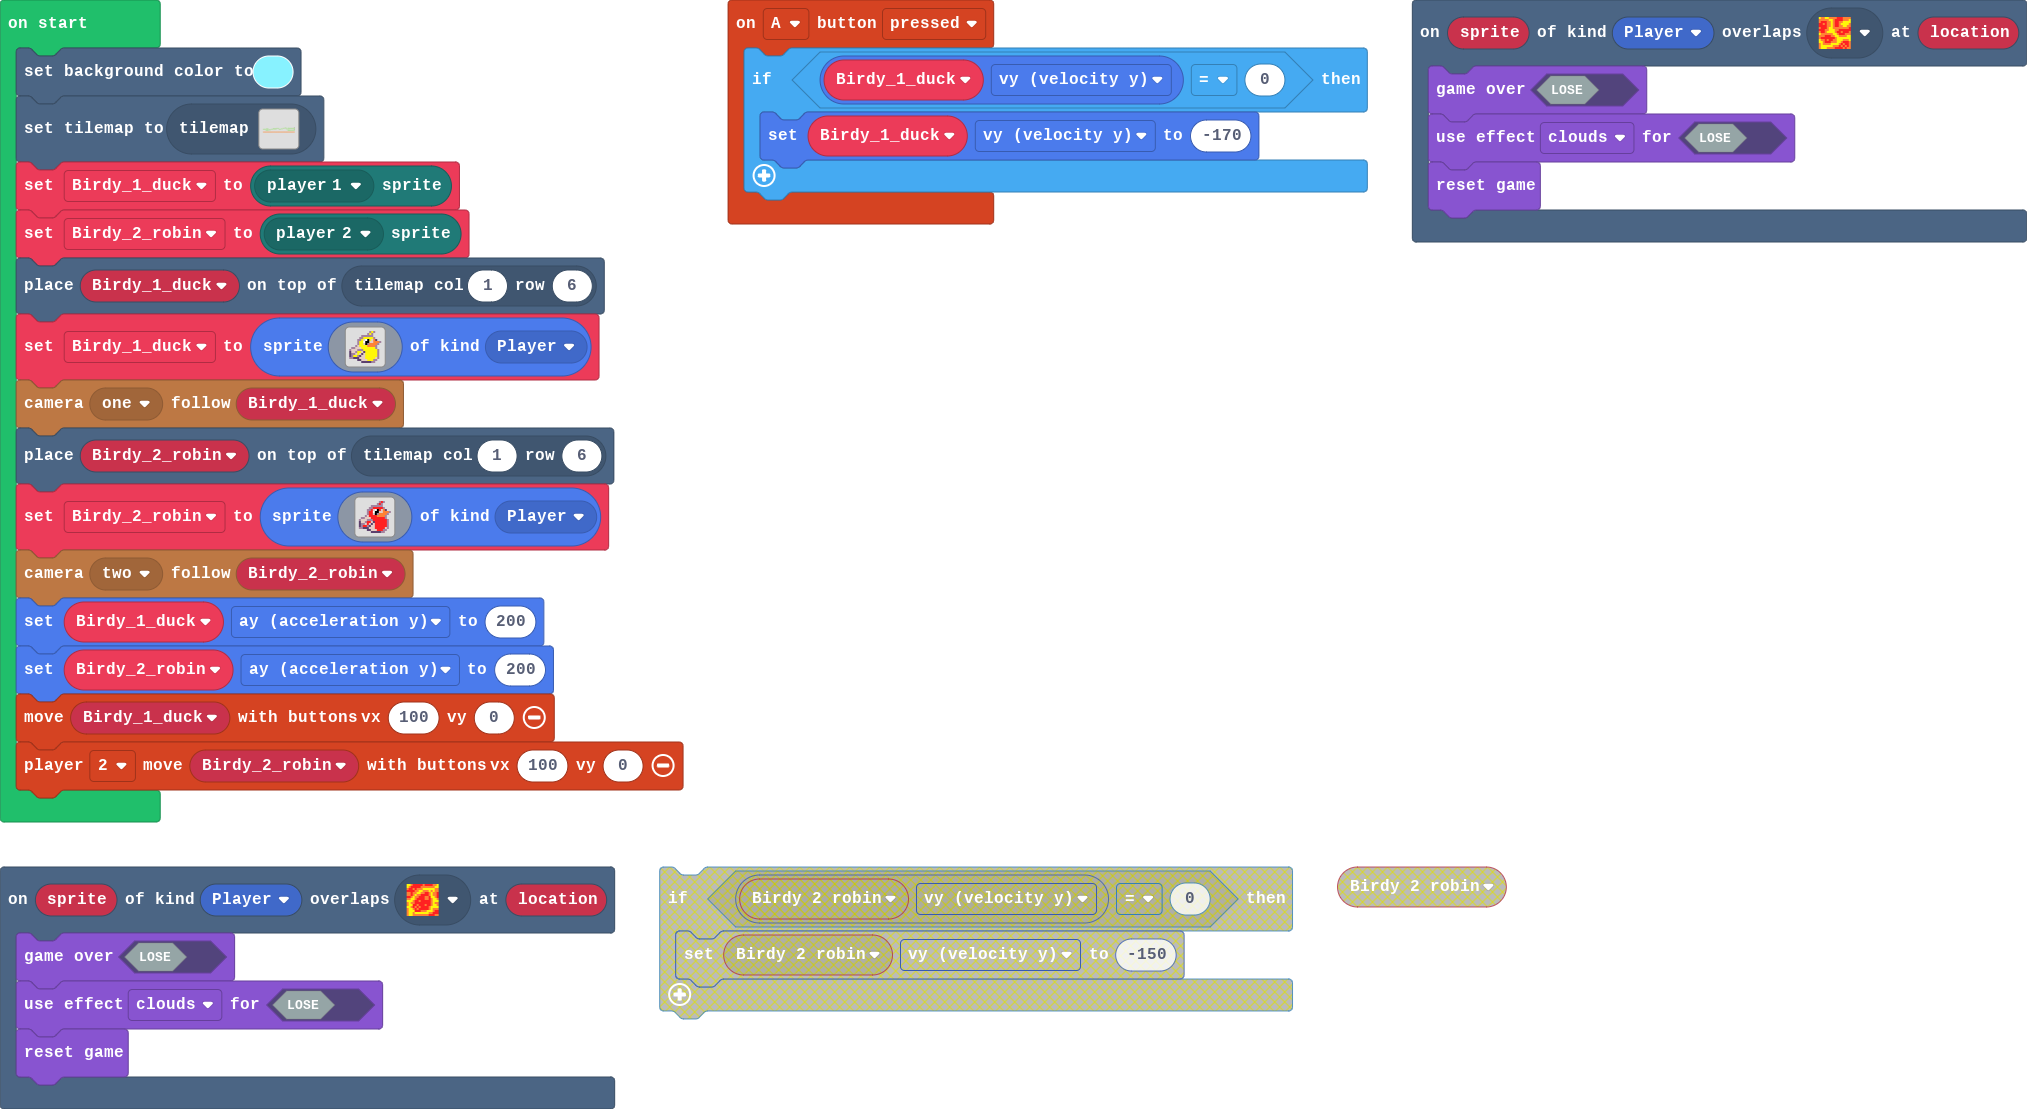
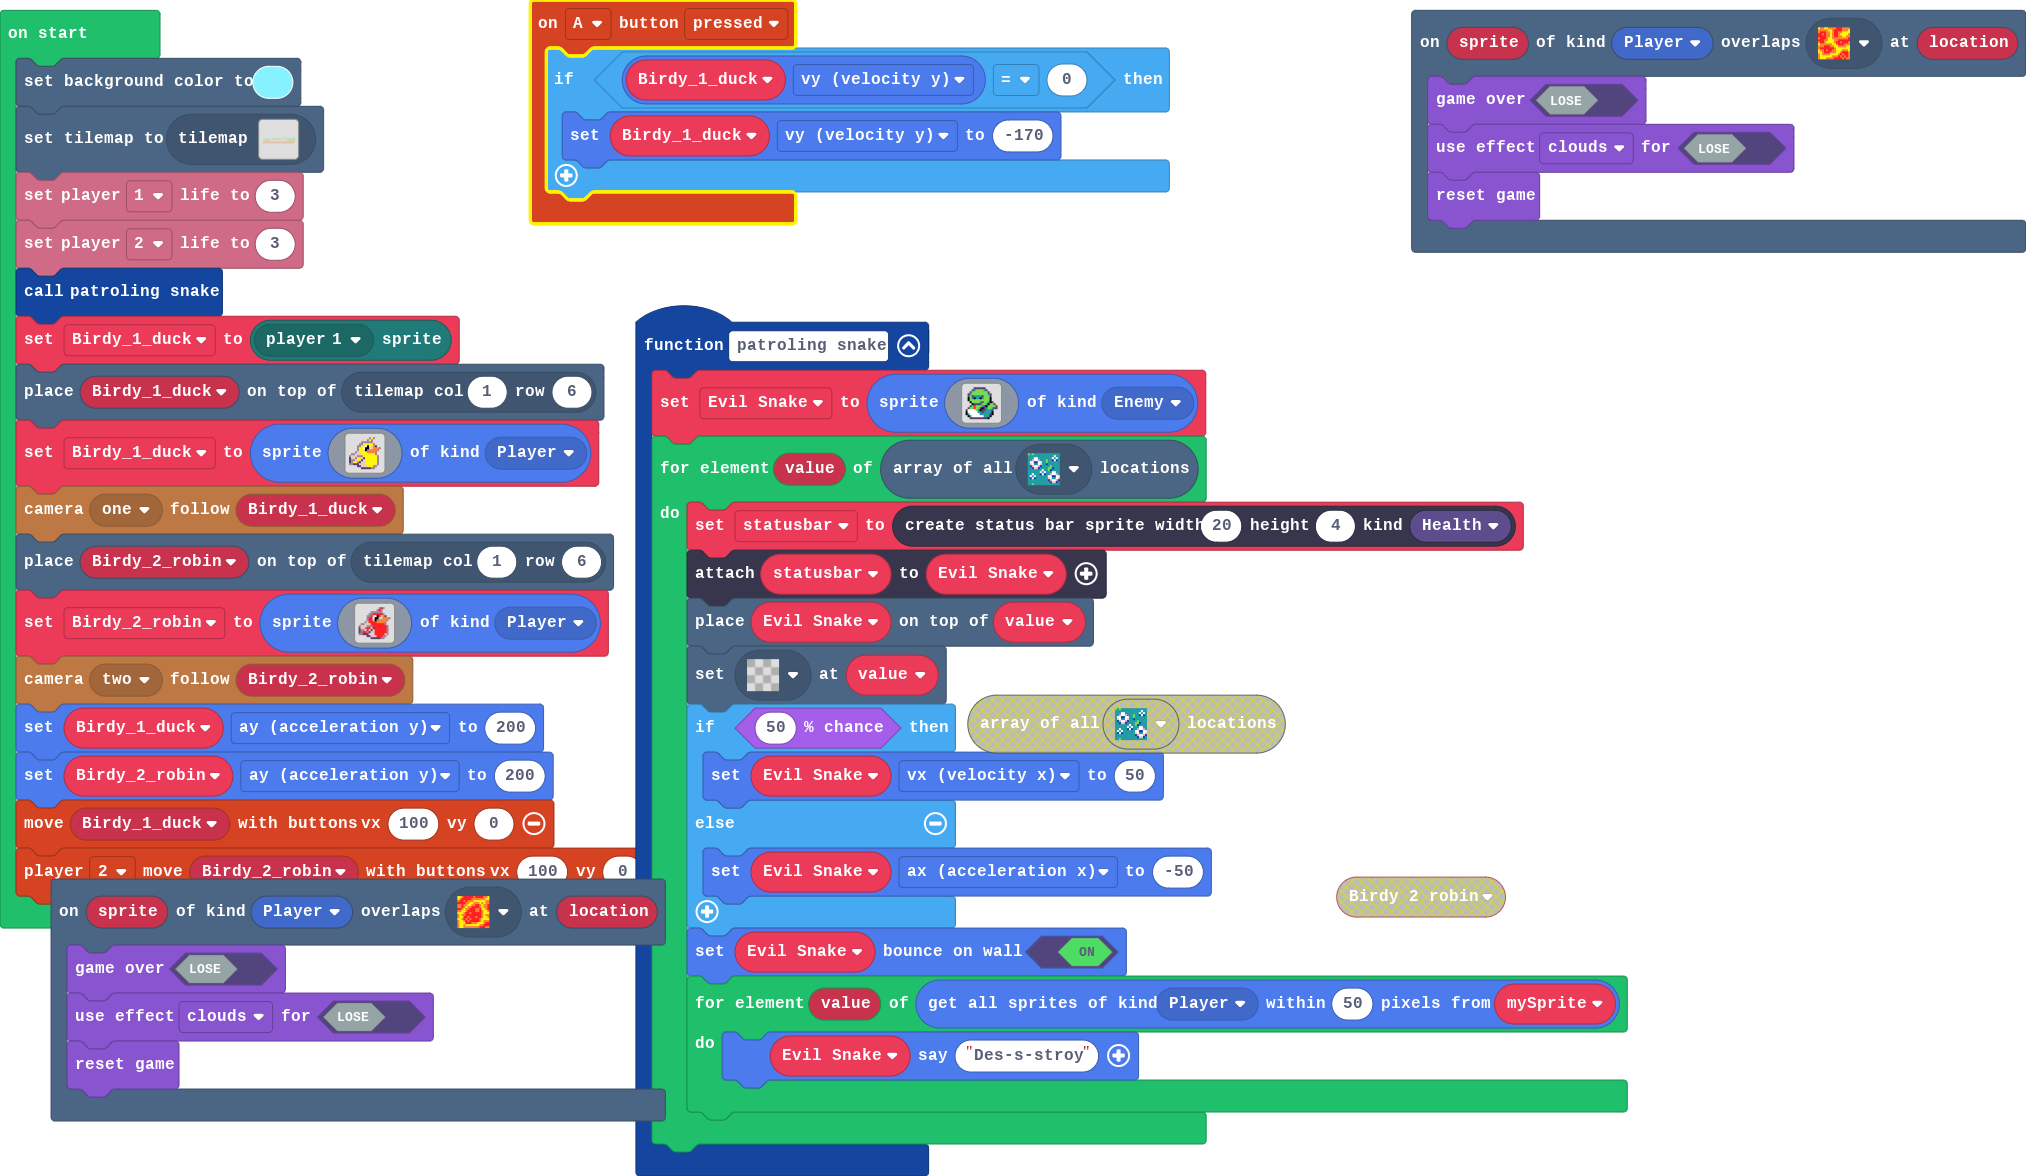
Update pxt.json, main.blocks, main.ts, tilemap.g.jres, tilemap.g.ts, images.g.jres, images.g.ts, Number Hopper🎮.json

diff --git a/tilemap.g.ts b/tilemap.g.ts
@@ -88,8 +88,27 @@ namespace myTiles {
 ............................................................
 ............................................................
 `, [myTiles.transparency16,myTiles.tile9,sprites.builtin.forestTiles0,sprites.swamp.swampTile13,sprites.swamp.swampTile9,sprites.builtin.forestTiles22,sprites.builtin.forestTiles20,sprites.castle.rock0,sprites.castle.rock1,sprites.castle.rock2,sprites.builtin.forestTiles3,myTiles.tile6,sprites.builtin.forestTiles8,myTiles.tile7,myTiles.tile8,myTiles.tile10,sprites.dungeon.hazardLava0,sprites.dungeon.hazardLava1], TileScale.Sixteen);
+            case "level3":
+            case "level3":return tiles.createTilemap(hex`1000100000000000000000000000000000000000000000000000000000000000000000000000000000000000000000000000000000000000000000000000000000000000000000000000000000000000000000000000000000000000000000000000000000000000000000000000000000000000000000000000000000000000000000000000000000000000000000000000000000000000000000000000000000000000000000000000000000000000000000000000000000000000000000000000000000000000000000000000000000000000000000000000000000000000000000000000000000000000000000000000000000000000000000000000000000000000`, img`
+. . . . . . . . . . . . . . . . 
+. . . . . . . . . . . . . . . . 
+. . . . . . . . . . . . . . . . 
+. . . . . . . . . . . . . . . . 
+. . . . . . . . . . . . . . . . 
+. . . . . . . . . . . . . . . . 
+. . . . . . . . . . . . . . . . 
+. . . . . . . . . . . . . . . . 
+. . . . . . . . . . . . . . . . 
+. . . . . . . . . . . . . . . . 
+. . . . . . . . . . . . . . . . 
+. . . . . . . . . . . . . . . . 
+. . . . . . . . . . . . . . . . 
+. . . . . . . . . . . . . . . . 
+. . . . . . . . . . . . . . . . 
+. . . . . . . . . . . . . . . . 
+`, [myTiles.transparency16], TileScale.Sixteen);
             case "level 1 two paths":
-            case "level 1 two paths1":return tiles.createTilemap(hex`4600100000000000000000000000000000000000000000000000000000000000000000000000000000000000000000000000000000000000000000000000000000000000000000000000000000000000000000000000000000000000000000000000000000000000000000000000000000000000000000000000000000000000000000000000000000000000000000000000000000000000000000000000000000000000000000000000000000000000000000000000000000000000000000000000000000000000000000000000000000000000000000000000000000000000000000000000000000000000000000000000000000000000000000000000000000000000000000000000000000000000000000000000000000000000000000000000000000000000000000000000000000000000000000000000000000000000000000000000000000000000000000000000000000000000000000000000000000000000000000000000000000000000000000000000000000000000000000000000000000000000000000000000000000000000000000000000000000000000000000000000000300000000000000000000000000000000000000000000000000000000000000000000000000000000000000000000000002020200000000000200000000000000000000000002000000000000000000000000000000000000000000000001000000000001000202020200000000000000000002020200000000000000000202020202020202020202020202020000000000000002020202020000000000000000000002020202020202020000000000000000000002020200000000000000000202020000000000000000000000000000000002020202020200000000000000000000000002020200000000000000000000000000000202020200000000000000000000000000000000000000000000000000000000000004000000000000000000000000000202020200000000000000000000000000000000000000000000000000000000000000000000000000000002000000000000000000000000020000000000000202020202020000000000000000000000000000000000000000000000000000000000000000000000000000000000000202020202020202020202020202020200000000000000000000000000000000000000000000000000000000000000000000000000000000000000000000000000000000000000000000000000000000000000000000000000000000000000000000000000000000000000000000000000000000000000000000000000000000000000000000000000000000000000000000000000000000000000000000000000000000000000000000000000000000000000000000000000000000000000000000000000000000000000000000000000000000000000000000000000000000000005060506050605060506050506050605060506050605060506050605060506050506050605060506060506060506050605060505060506050605050605050605060605060605`, img`
+            case "level 1 two paths1":return tiles.createTilemap(hex`4600100000000000000000000000000000000000000000000000000000000000000000000000000000000000000000000000000000000000000000000000000000000000000000000000000000000000000000000000000000000000000000000000000000000000000000000000000000000000000000000000000000000000000000000000000000000000000000000000000000000000000000000000000000000000000000000000000000000000000000000000000000000000000000000000000000000000000000000000000000000000000000000000000000000000000000000000000000000000000000000000000000000000000000000000000000000000000000000000000000000000000000000000000000000000000000000000000000000000000000000000000000000000000000000000000000000000000000000000000000000000000000000000000000000000000000000000000000000000000000000000000000000000000000000000000000000000000000000000000000000000000000000000000000000000000000000000000000000000000000000000000300000000000000000000000000000000000000000000000000000000000000000000000000000000000000000000000002020200000000000200000000000000000000000002000000000000000000000000000000000000000000000001000007000001000202020200000000000000000002020200000000000000000202020202020202020202020202020000000000000002020202020000000000000000000002020202020202020000000000000000000002020200000000000000000202020000000000000000000000000000000002020202020200000000000000000000000002020200000000000000000000000000000202020200000000000000000000000000000000000000000000000000000000000004000000000000000000000000000202020200000000000000000000000000000000000000000000000000000000000000000000000000000002000000000000000000000000020000000000000202020202020000000000000000000000000000000000000000000000000000000000000000000000000000000000000202020202020202020202020202020200000000000000000000000000000000000000000000000000000000000000000000000000000000000000000000000000000000000000000000000000000000000000000000000000000000000000000000000000000000000000000000000000000000000000000000000000000000000000000000000000000000000000000000000000000000000000000000000000000000000000000000000000000000000000000000000000000000000000000000000000000000000000000000000000000000000000000000000000000000000005060506050605060506050506050605060506050605060506050605060506050506050605060506060506060506050605060505060506050605050605050605060605060605`, img`
 ......................................................................
 ......................................................................
 ......................................................................
@@ -106,7 +125,26 @@ namespace myTiles {
 ......................................................................
 ......................................................................
 ......................................................................
-`, [myTiles.transparency16,sprites.castle.tileGrass2,sprites.castle.tileGrass1,myTiles.tile12,myTiles.tile13,sprites.dungeon.hazardLava0,sprites.dungeon.hazardLava1], TileScale.Sixteen);
+`, [myTiles.transparency16,sprites.castle.tileGrass2,sprites.castle.tileGrass1,myTiles.tile12,myTiles.tile13,sprites.dungeon.hazardLava0,sprites.dungeon.hazardLava1,sprites.castle.tileDarkGrass2], TileScale.Sixteen);
+            case "level17":
+            case "level17":return tiles.createTilemap(hex`1000100000000000000000000000000000000000000000000000000000000000000000000000000000000000000000000000000000000000000000000000000000000000000000000000000000000000000000000000000000000000000000000000000000000000000000000000000000000000000000000000000000000000000000000000000000000000000000000000000000000000000000000000000000000000000000000000000000000000000000000000000000000000000000000000000000000000000000000000000000000000000000000000000000000000000000000000000000000000000000000000000000000000000000000000000000000000`, img`
+. . . . . . . . . . . . . . . . 
+. . . . . . . . . . . . . . . . 
+. . . . . . . . . . . . . . . . 
+. . . . . . . . . . . . . . . . 
+. . . . . . . . . . . . . . . . 
+. . . . . . . . . . . . . . . . 
+. . . . . . . . . . . . . . . . 
+. . . . . . . . . . . . . . . . 
+. . . . . . . . . . . . . . . . 
+. . . . . . . . . . . . . . . . 
+. . . . . . . . . . . . . . . . 
+. . . . . . . . . . . . . . . . 
+. . . . . . . . . . . . . . . . 
+. . . . . . . . . . . . . . . . 
+. . . . . . . . . . . . . . . . 
+. . . . . . . . . . . . . . . . 
+`, [myTiles.transparency16], TileScale.Sixteen);
         }
         return null;
     })

diff --git a/main.ts b/main.ts
@@ -1,6 +1,7 @@
 namespace SpriteKind {
     export const Flag = SpriteKind.create()
 }
+let mySprite: Sprite = null
 controller.A.onEvent(ControllerButtonEvent.Pressed, function () {
     if (Birdy_1_duck.vy == 0) {
         Birdy_1_duck.vy = -170
@@ -16,11 +17,34 @@ scene.onOverlapTile(SpriteKind.Player, sprites.dungeon.hazardLava1, function (sp
     game.setGameOverEffect(false, effects.clouds)
     game.reset()
 })
+function patroling_snake () {
+    Evil_Snake = sprites.create(assets.image`forestSnake0`, SpriteKind.Enemy)
+    for (let value of tiles.getTilesByType(sprites.castle.tileDarkGrass2)) {
+        statusbar = statusbars.create(20, 4, StatusBarKind.Health)
+        statusbar.attachToSprite(Evil_Snake)
+        tiles.placeOnTile(Evil_Snake, value)
+        tiles.setTileAt(value, assets.tile`transparency16`)
+        if (Math.percentChance(50)) {
+            Evil_Snake.vx = 50
+        } else {
+            Evil_Snake.ax = -50
+        }
+        Evil_Snake.setBounceOnWall(true)
+        for (let value of spriteutils.getSpritesWithin(SpriteKind.Player, 50, mySprite)) {
+            Evil_Snake.sayText("Des-s-stroy")
+        }
+    }
+}
+let statusbar: StatusBarSprite = null
+let Evil_Snake: Sprite = null
+let Birdy_2_robin: Sprite = null
 let Birdy_1_duck: Sprite = null
 scene.setBackgroundColor(9)
 tiles.setCurrentTilemap(tilemap`level 1 two paths`)
+info.player1.setLife(3)
+info.player2.setLife(3)
+patroling_snake()
 Birdy_1_duck = mp.getPlayerSprite(mp.playerSelector(mp.PlayerNumber.One))
-let Birdy_2_robin = mp.getPlayerSprite(mp.playerSelector(mp.PlayerNumber.Two))
 tiles.placeOnTile(Birdy_1_duck, tiles.getTileLocation(1, 6))
 Birdy_1_duck = sprites.create(assets.image`Ducky`, SpriteKind.Player)
 splitScreen.cameraFollowSprite(splitScreen.Camera.Camera1, Birdy_1_duck)

diff --git a/images.g.ts b/images.g.ts
@@ -92,25 +92,6 @@ b b c c c d d d 5 5 5 5 5 d b .
 . . . . c c d d d 5 5 5 b b . . 
 . . . . . . c c c c c b b . . . 
 `;
-            case "image2":
-            case "forestSnake0":return img`
-. . . . c c c c c c . . . . . . 
-. . . c 6 7 7 7 7 6 c . . . . . 
-. . c 7 7 7 7 7 7 7 7 c . . . . 
-. c 6 7 7 7 7 7 7 7 7 6 c . . . 
-. c 7 c 6 6 6 6 c 7 7 7 c . . . 
-. f 7 6 f 6 6 f 6 7 7 7 f . . . 
-. f 7 7 7 7 7 7 7 7 7 7 f . . . 
-. . f 7 7 7 7 6 c 7 7 6 f c . . 
-. . . f c c c c 7 7 6 f 7 7 c . 
-. . c 7 2 7 7 7 6 c f 7 7 7 7 c 
-. c 7 7 2 7 7 c f c 6 7 7 6 c c 
-c 1 1 1 1 7 6 f c c 6 6 6 c . . 
-f 1 1 1 1 1 6 6 c 6 6 6 6 f . . 
-f 6 1 1 1 1 1 6 6 6 6 6 c f . . 
-. f 6 1 1 1 1 1 1 6 6 6 f . . . 
-. . c c c c c c c c c f . . . . 
-`;
             case "image3":
             case "forestBat0":return img`
 . . f f f . . . . . . . . f f f 
@@ -300,6 +281,25 @@ c 5 4 5 1 5 c .
 c 5 5 1 5 5 c . 
 . f 5 5 5 f . . 
 . . f f f . . . 
+`;
+            case "image2":
+            case "forestSnake0":return img`
+. . . . c c c c c c . . . . . . 
+. . . c 6 7 7 7 7 6 c . . . . . 
+. . c 7 7 7 7 7 7 7 7 c . . . . 
+. c 6 7 7 7 7 7 7 7 7 6 c . . . 
+. c 7 c 6 6 6 6 c 7 7 7 c . . . 
+. f 7 6 f 6 6 f 6 7 7 7 f . . . 
+. f 7 7 7 7 7 7 7 7 7 7 f . . . 
+. . f 7 7 7 7 6 c 7 7 6 f c . . 
+. . . f c c c c 7 7 6 f 7 7 c . 
+. . c 7 2 7 7 7 6 c f 7 7 7 7 c 
+. c 7 7 2 7 7 c f c 6 7 7 6 c c 
+c 1 1 1 1 7 6 f c c 6 6 6 c . . 
+f 1 1 1 1 1 6 6 c 6 6 6 6 f . . 
+f 6 1 1 1 1 1 6 6 6 6 6 c f . . 
+. f 6 1 1 1 1 1 1 6 6 6 f . . . 
+. . c c c c c c c c c f . . . . 
 `;
         }
         return null;
